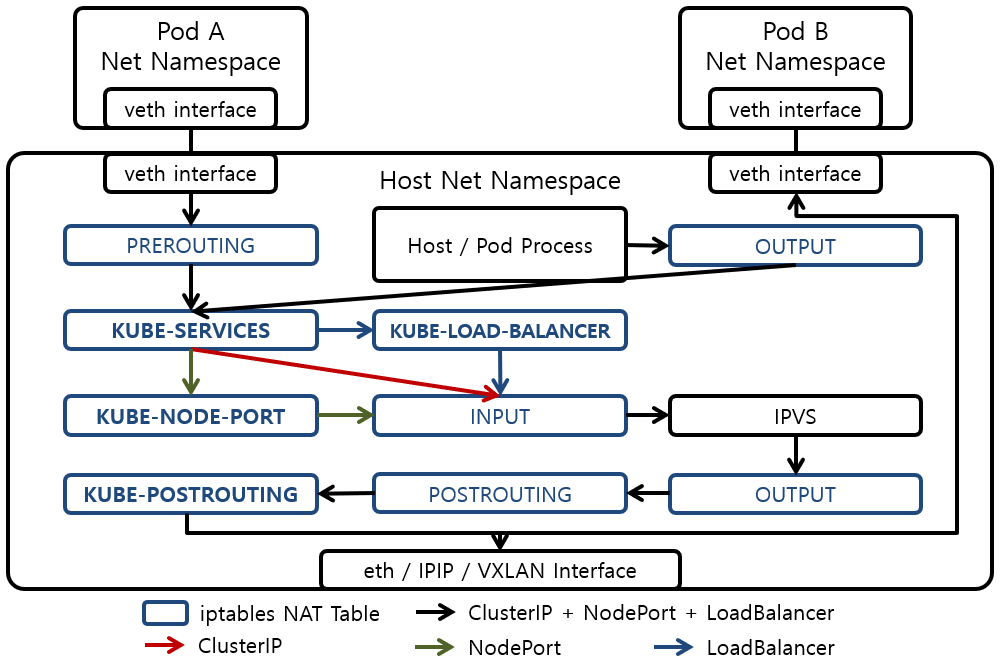
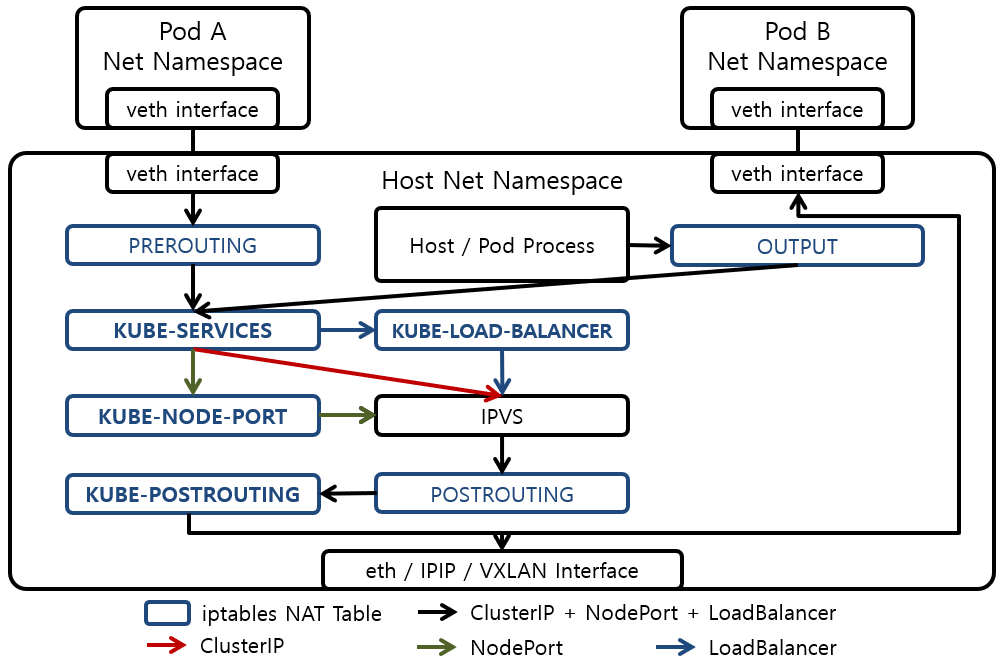
Update

diff --git a/_docs/theory_analysis/Kubernetes_Service_Proxy.md b/_docs/theory_analysis/Kubernetes_Service_Proxy.md
@@ -334,7 +334,7 @@ TCP  10.103.1.234:80 rr
 
 Service Proxy의 IPVS Mode는 Linue Kernel에서 제공하는 L4 Load Balacner인 IPVS가 Service Proxy 역활을 수행하는 Mode이다. Packet Load Balancing 수행시 IPVS가 iptables보다 높은 성능을 보이기 때문에 IPVS Mode는 iptables Mode보다 높은 성능을 보여준다. [그림 4]는 IPVS Mode에서 Service로 전송되는 요청 Packet의 경로를 나타내고 있다. [NAT Table 13] ~ [NAT Table 15]는 [그림 4]의 주요 NAT Table의 실제 내용을 보여주고 있다. [IPset List 1]는 IPVS Mode의 주요 IPset 목록을 보여주고 있다. [IPVS List 1]는 [그림 4]의 IPVS의 실제 내용을 보여주고 있다. [그림 4]의 NAT Table, IPset, IPVS는 Kubernetes Cluster를 구성하는 모든 Node에 동일하게 설정된다. 따라서 Kubernetes Cluster를 구성하는 어느 Node에서도 Service 요청 Packet을 전송할 수 있다.
 
-대부분의 Pod에서 전송된 요청 Packet은 Pod의 veth를 통해서 Host의 Network Namespace로 전달되기 때문에 요청 Packet은 PREROUTING Table에 의해서 KUBE-SERVICES Table로 전달된다. Host의 Network Namespace를 이용하는 Pod 또는 Host Process에서 전송한 요청 Packet은 OUTPUT Table에 의해서 KUBE-SERVICES Table로 전달된다. KUBE-SERVICES Table에서 요청 Packet의 Dest IP와 Dest Port가 ClusterIP Service의 IP와 Port와 일치한다면, 해당 요청 Packet은 INPUT Table을 거쳐 IPVS로 전달된다. 요청 Packet의 Dest IP가 Node 자신의 IP인 경우에는 해당 요청 Packet은 KUBE-NODE-PORT Table과 INPUT Table을 거쳐 IPVS로 전달된다. 요청 Packet의 Dest IP와 Dest Port가 LoadBalancer Service의 External IP와 Port와 일치한다면 해당 요청의 Packet은 KUBE-LOAD-BALANCER Table과 INPUT Table을 거쳐 IPVS로 전달된다.
+대부분의 Pod에서 전송된 요청 Packet은 Pod의 veth를 통해서 Host의 Network Namespace로 전달되기 때문에 요청 Packet은 PREROUTING Table에 의해서 KUBE-SERVICES Table로 전달된다. Host의 Network Namespace를 이용하는 Pod 또는 Host Process에서 전송한 요청 Packet은 OUTPUT Table에 의해서 KUBE-SERVICES Table로 전달된다. KUBE-SERVICES Table에서 요청 Packet의 Dest IP와 Dest Port가 ClusterIP Service의 IP와 Port와 일치한다면, 해당 요청 Packet은 IPVS로 전달된다. 요청 Packet의 Dest IP가 Node 자신의 IP인 경우에는 해당 요청 Packet은 KUBE-NODE-PORT Table을 거쳐 IPVS로 전달된다. 요청 Packet의 Dest IP와 Dest Port가 LoadBalancer Service의 External IP와 Port와 일치한다면 해당 요청의 Packet은 KUBE-LOAD-BALANCER Table을 거쳐 IPVS로 전달된다. PREROUTING, OUTPUT Table의 Default Rule이 Accept라면 Service로 전달되는 Packet은 KUBE-SERVICES Table이 없어도 IPVS로 전달되기 때문에 Service에는 영향을 주지 않는다.
 
 IPVS는 요청 Packet의 Dest IP, Dest Port가 Service의 Cluster-IP와 Port와 일치하는 경우, 요청 Packet의 Dest IP가 Node 자신의 IP이고 Dest Port가 NodePort Service의 NodePort와 일치하는 경우, 요청 Packet의 Dest IP, Dest Port가 LoadBalancer Service의 External IP와 Port와 일치하는 경우, 해당 요청 Packet을 Load Balancing 및 Pod의 IP와 Service에서 설정한 Port로 **DNAT**를 수행한다. Pod의 IP로 DNAT된 요청 Packet은 CNI Plugin을 통해 구축된 Container Network를 통해서 해당 Pod에게 전달된다. [IPVS List 1]에서 Service들과 연관된 모든 IP를 대상으로 Load Balancing 및 DNAT를 수행하는 것을 확인할 수 있다.
 
